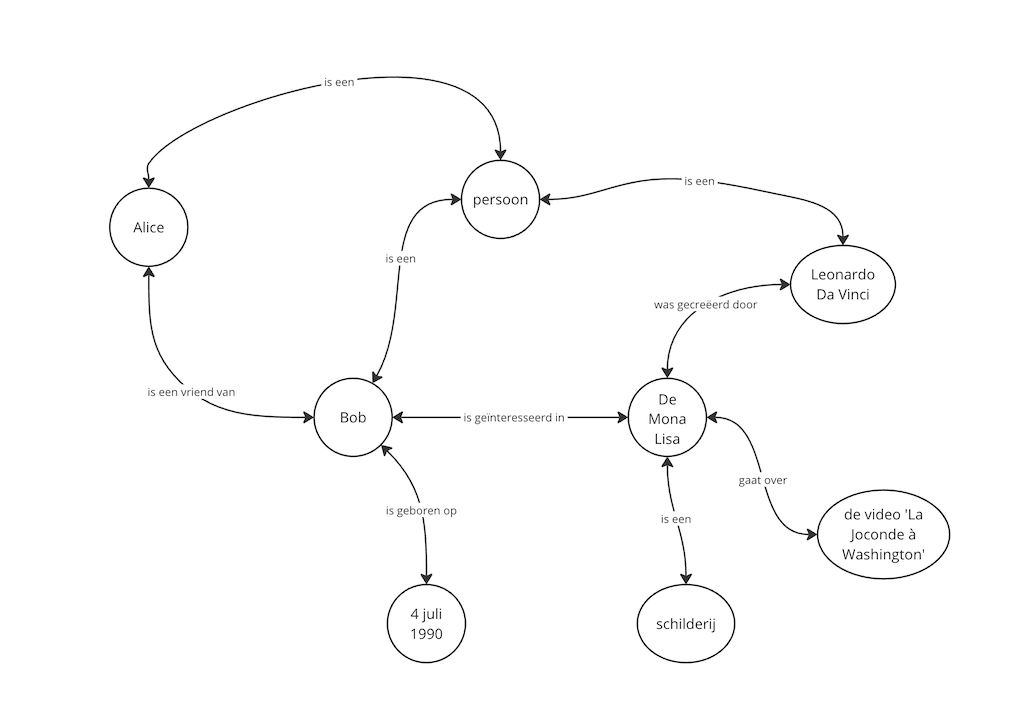
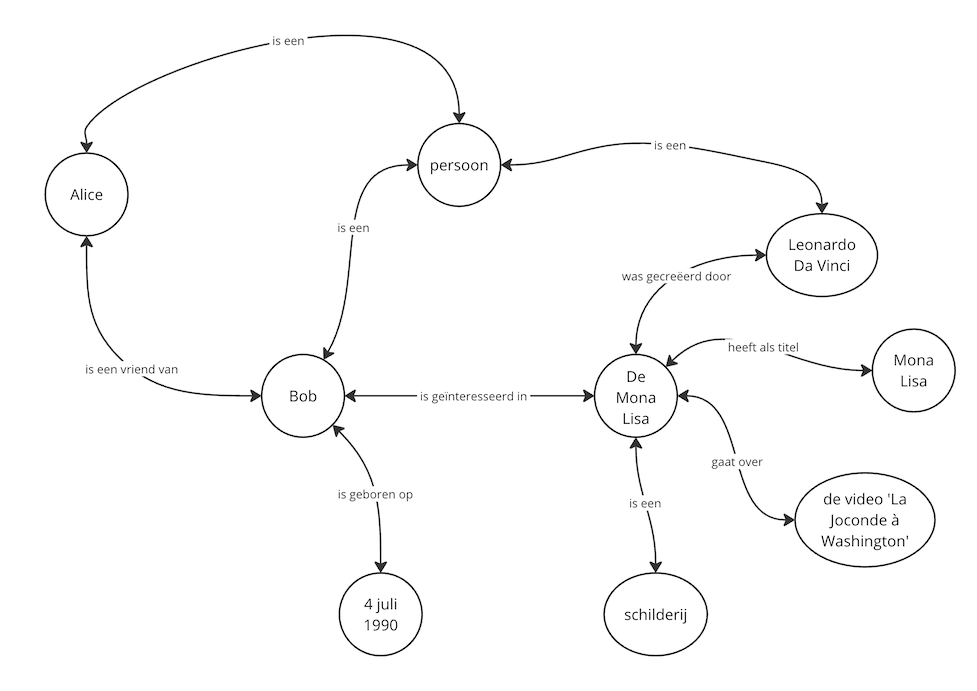
LPDC-910: beschrijf Iris, Literals, N-Triples, Turtle, SPARQL

diff --git a/docs/integrerende-gemeentes.md b/docs/integrerende-gemeentes.md
@@ -16,7 +16,9 @@ Het doel is om data uit verschillende bronnen gemakkelijk toegankelijk en integr
 **LOD (Linked Open Data)** is een uitbreiding van het Linked Data-concept, waarbij de nadruk ligt op het openbaar en vrij beschikbaar maken van verbonden datasets. 
 LOD maakt het mogelijk om gegevenssets van verschillende domeinen (zoals overheid, cultuur, wetenschap) aan elkaar te koppelen, waardoor een rijk en onderling verbonden gegevensweb ontstaat dat voor iedereen toegankelijk is.
 
-### RDF (Resource Description Framework) - SPARQL (SPARQL Protocol and RDF Query Language)
+### RDF (Resource Description Framework)
+
+#### Inleiding
 
 (uit:[rdf primer](https://www.w3.org/TR/rdf11-primer/))
 
@@ -44,6 +46,7 @@ _Voorbeeld:_
 <Bob> <is geboren op> <4 juli 1990>. 
 <Bob> <is geïnteresseerd in> <de Mona Lisa>.
 <Alice> <is een> <persoon>. 
+<de Mona Lisa> <heeft als titel> <Mona Lisa>.
 <de Mona Lisa> <was gecreëerd door> <Leonardo da Vinci>.
 <de Mona Lisa> <is een> <schilderij>.
 <de video 'La Joconde à Washington'> <gaat over> <de Mona Lisa> .
@@ -63,7 +66,152 @@ Elke triple in RDF graaf bestaat uit een subject (onderwerp), een predicaat (pre
 
 Merk op dat de relaties altijd bidirectioneel zijn in de graaf, maar in de triple omschrijving volstaat één richting te beschrijven.
 
+#### IRIs
+Een IRI is een International Resource Identifier. Een IRI definieert een bron (resource).  
+De URL's (Uniform Resource Locators) die mensen gebruiken als webadressen zijn één vorm van IRI (Internationalized Resource Identifiers).
+Andere vormen van IRI bieden een identificatie voor een bron zonder de locatie of hoe deze te benaderen te impliceren. 
+Het concept van IRI is een generalisatie van URI (Uniform Resource Identifier), waardoor niet-ASCII tekens gebruikt kunnen worden in de IRI-tekenreeks. 
+IRI's zijn gespecificeerd in [RFC3987](https://www.ietf.org/rfc/rfc3987.txt).
+
+IRI's kunnen verschijnen **in alle drie de posities** van een triple.
+
+Zoals vermeld, worden IRI's gebruikt om bronnen te identificeren zoals documenten, personen, fysieke objecten en abstracte concepten. 
+
+Bijvoorbeeld, de IRI voor Leonardo da Vinci in DBpedia is (subject en objectd <Leonardo da Vinci>):
+
+```
+http://dbpedia.org/resource/Leonardo_da_Vinci
+```
+
+De IRI voor een INA-video over de Mona Lisa getiteld 'La Joconde à Washington' in Europeana is: (subject: <de video 'La Joconde à Washington'>)
+
+```
+http://data.europeana.eu/item/04802/243FA8618938F4117025F17A8B813C5F9AA4D619
+```
+
+IRI's zijn wereldwijde identificatoren, dus andere mensen kunnen deze IRI hergebruiken om hetzelfde te identificeren. 
+Bijvoorbeeld, de volgende IRI wordt door veel mensen gebruikt als een RDF-eigenschap om een kennissenrelatie tussen mensen aan te geven (<is een vriend van> in pseudo voorbeeld>):
+
+```
+http://xmlns.com/foaf/0.1/knows
+```
+
+RDF is neutraal over wat de IRI vertegenwoordigt. Echter, IRIs kunnen betekenis krijgen door specifieke vocabulaires of conventies.
+
+Bijvoorbeeld, DBpedia gebruikt IRIs in de vorm van http://dbpedia.org/resource/Naam om het ding aan te duiden dat beschreven wordt door het overeenkomstige Wikipedia-artikel.
+
+Het RDF-datamodel biedt een manier om uitspraken te doen over bronnen. Zoals we hebben vermeld, maakt dit datamodel geen aannames over waarvoor bron-IRI's staan. 
+In de praktijk wordt RDF doorgaans gebruikt in combinatie met vocabulaires of andere conventies die semantische informatie over deze bronnen verstrekken.
+
+Veel gebruikte voorbeelden zijn: [RDF Syntax](https://www.w3.org/1999/02/22-rdf-syntax-ns), [Dublin Core](http://dublincore.org/documents/dcmi-terms/), [schema.org](http://schema.org/), [SKOS](http://www.w3.org/2004/02/skos/), [FOAF](http://www.foaf-project.org/).
+
+The aanduiden van een type <is een> kan bvb. met
+```
+http://www.w3.org/1999/02/22-rdf-syntax-ns#type
+```
+
+#### Literals
+
+Literals zijn basiswaarden die geen IRI's zijn. 
+Voorbeelden van literals omvatten strings zoals "La Joconde", datums zoals "de 4e juli, 1990" en getallen zoals "3.14159". 
+
+Literals worden geassocieerd met een datatype waardoor dergelijke waarden correct geparsed en geïnterpreteerd kunnen worden. 
+String literals kunnen optioneel geassocieerd worden met een language tag (taaltag).
+
+**Literals mogen alleen verschijnen in de objectpositie van een triple.**
+
+#### triple-store
+
 De set van triples worden bewaard in een **triple-store**. Dit is een database dit RDF van nature kan opslaan.
+
+Voorbeelden van triple stores zijn: [Virtuoso](https://github.com/openlink/virtuoso-opensource), [Apache Jena](https://jena.apache.org/), [GraphDB](https://graphdb.ontotext.com/).
+
+### Serialisatie formaten voor RDF Data
+
+Er bestaan verschillende serialisatieformaten voor het noteren van RDF-grafen. 
+Echter, verschillende manieren van het noteren van dezelfde graaf leiden tot precies dezelfde triples en zijn dus logisch equivalent.
+
+Hieronder geven we voorbeelden van verscheidene serialisatie formaten die het pseudo code voorbeeld map met een voorbeeld vocabulaires. Dezelfde data is 
+
+#### N-Triples
+
+N-Triples [N-TRIPLES] biedt een eenvoudige, regelgebaseerde, platte-tekst manier voor het serialiseren van RDF-grafen.
+
+```n-triples
+<http://example.org/bob#me> <http://www.w3.org/1999/02/22-rdf-syntax-ns#type> <http://xmlns.com/foaf/0.1/Person> .
+<http://example.org/bob#me> <http://xmlns.com/foaf/0.1/knows> <http://example.org/alice#me> .
+<http://example.org/bob#me> <http://schema.org/birthDate> "1990-07-04"^^<http://www.w3.org/2001/XMLSchema#date> .
+<http://example.org/bob#me> <http://xmlns.com/foaf/0.1/topic_interest> <http://www.wikidata.org/entity/Q12418> .
+<http://example.org/alice#me> <http://www.w3.org/1999/02/22-rdf-syntax-ns#type> <http://xmlns.com/foaf/0.1/Person> .
+<http://www.wikidata.org/entity/Q12418> <http://purl.org/dc/terms/title> "Mona Lisa" .
+<http://www.wikidata.org/entity/Q12418> <http://purl.org/dc/terms/creator> <http://dbpedia.org/resource/Leonardo_da_Vinci> .
+<http://www.wikidata.org/entity/Q12418> <http://www.w3.org/1999/02/22-rdf-syntax-ns#type>  <http://schema.org/Painting>.
+<http://data.europeana.eu/item/04802/243FA8618938F4117025F17A8B813C5F9AA4D619> <http://purl.org/dc/terms/subject> <http://www.wikidata.org/entity/Q12418> .
+<http://dbpedia.org/resource/Leonardo_da_Vinci> <http://www.w3.org/1999/02/22-rdf-syntax-ns#type> <http://xmlns.com/foaf/0.1/Person> .
+```
+
+Elke regel vertegenwoordigt een triple. Volledige IRI's zijn omsloten in spitse haakjes (<>). 
+De punt aan het einde van de regel geeft het einde van de triple aan. 
+In regel 3 zien we een voorbeeld van een literal, in dit geval een datum. 
+Het datatype wordt aan de literal toegevoegd via een ^^ scheidingsteken. 
+De datumsrepresentatie volgt de conventies van het XML Schema datatype date.
+
+Omdat string literals zo alomtegenwoordig zijn, staat N-Triples de gebruiker toe om het datatype weg te laten bij het schrijven van een string literal. 
+Dus, "Mona Lisa" is equivalent aan "Mona Lisa"^^xsd:string. 
+In het geval van taal-getagde strings verschijnt de tag direct na de string, gescheiden door een @ symbool, bijvoorbeeld "La Joconde"@fr (de Franse naam van de Mona Lisa).
+
+Het aantal lijntjes N-Triples vertegenwoordigt het aantal links in de graaf.
+
+#### Turtle
+
+Turtle is een uitbreiding van N-Triples. 
+Naast de basis N-Triples syntax, introduceert Turtle een aantal syntactische verkortingen, zoals ondersteuning voor namespace prefixes, lijsten en afkortingen voor datatyped literals. 
+Turtle biedt een compromis tussen schrijfgemak, parsegemak en leesbaarheid.
+
+Het werkvoorbeeld uitgedrukt in TURTLE:
+
+```turtle
+BASE   <http://example.org/>
+PREFIX foaf: <http://xmlns.com/foaf/0.1/>
+PREFIX xsd: <http://www.w3.org/2001/XMLSchema#>
+PREFIX schema: <http://schema.org/>
+PREFIX dcterms: <http://purl.org/dc/terms/>
+PREFIX wd: <http://www.wikidata.org/entity/>
+
+<bob#me>
+    a foaf:Person ;
+    foaf:knows <alice#me> ;
+    schema:birthDate "1990-07-04"^^xsd:date ;
+    foaf:topic_interest wd:Q12418 .
+
+<alice#me>
+    a foaf:Person.
+
+<http://dbpedia.org/resource/Leonardo_da_Vinci>
+    a foaf:Person.
+
+wd:Q12418
+    dcterms:title "Mona Lisa" ;
+    dcterms:creator <http://dbpedia.org/resource/Leonardo_da_Vinci> ;
+    a schema:Painting .
+
+<http://data.europeana.eu/item/04802/243FA8618938F4117025F17A8B813C5F9AA4D619>
+    dcterms:subject wd:Q12418 .
+```
+
+_Noot_: de afkorting 'a' komt overeen met de menselijke intuïtie over rdf:type. 
+
+
+#### JSON-LD
+
+JSON-LD [JSON-LD] biedt een JSON-syntax voor RDF-grafen en datasets. 
+JSON-LD kan gebruikt worden om JSON-documenten met minimale wijzigingen naar RDF om te zetten en omgekeerd. 
+JSON-LD biedt universele identificatoren voor JSON-objecten, een mechanisme waarbij een JSON-document kan verwijzen naar een object dat in een ander JSON-document elders op het web wordt beschreven, evenals datatype- en taalafhandeling. 
+
+//TODO LPDC-910: voeg voorbeeld toe
+
+
+###  SPARQL (SPARQL Protocol and RDF Query Language)
 
 Om gegevens te zoeken of te manipuleren in de graaf, kan je gebruik maken van **SPARQL**. 
 SPARQL kan gebruikt worden om queries uit te drukken over diverse gegevensbronnen, of de gegevens nu van nature als RDF opgeslagen zijn of als RDF bekeken worden via middleware. 
@@ -71,10 +219,27 @@ SPARQL bevat mogelijkheden voor het opvragen van vereiste en optionele graafpatr
 SPARQL ondersteunt ook aggregatie, subqueries, negatie, het creëren van waarden door expressies, uitbreidbare waardebeoordeling, en het beperken van queries door bron RDF-graaf. 
 De resultaten van SPARQL-queries kunnen resultaatsets of RDF-grafen zijn.
 
-### LDES (Linked Data Event Stream)
+Een voorbeeld query: 
 
-### JSON-LD ()
+```sparql
+select ?subject WHERE {
+    GRAPH <test> {
+          ?subject <http://www.w3.org/1999/02/22-rdf-syntax-ns#type> <http://xmlns.com/foaf/0.1/Person>
+    }
+}
+```
+
+Geeft als resultaat:
+```
+subject
+http://dbpedia.org/resource/Leonardo_da_Vinci
+http://example.org/alice#me
+http://example.org/bob#me
+```
+
 ### SHACL
+
+### LDES (Linked Data Event Stream)
 
 ## Contract specificaties
 
@@ -91,13 +256,16 @@ De resultaten van SPARQL-queries kunnen resultaatsets of RDF-grafen zijn.
 - [IPDC - LPDC (Implementatiemodel)](https://data.vlaanderen.be/doc/implementatiemodel/ipdc-lpdc/)
 - [URI (Uniform Resource Identifier)](https://en.wikipedia.org/wiki/Uniform_Resource_Identifier)
 - [RDF (Resource Description Framework)](https://www.w3.org/TR/rdf11-primer/)
+- [N-TRIPLES](https://www.w3.org/TR/n-triples/)
+- [Turtle](https://www.w3.org/TR/turtle/)
+- [JSON-LD specificatie](https://www.w3.org/TR/json-ld/)
+- [JSON-LD (JSON for Linking Data)](https://json-ld.org/)
+- [JSON-LD 1.1 Processing Algorithms and API](https://www.w3.org/TR/json-ld11-api/)
 - [SPARQL 1.1 Query Language](https://www.w3.org/TR/sparql11-query/)
 - [OWL (Web Ontology Language)](https://www.w3.org/TR/owl2-overview/)
 - [SHACL (Shapes Constraint Language)](https://www.w3.org/TR/shacl)
 - [LDES (Linked Data Event Streams)](https://semiceu.github.io/LinkedDataEventStreams/)
 - [TREE (The TREE hypermedia specification)](https://treecg.github.io/specification/)
-- [JSON-LD (JSON for Linking Data)](https://json-ld.org/)
-- [JSON-LD 1.1 Processing Algorithms and API](https://www.w3.org/TR/json-ld11-api/)
 
 ### Broncode (open source)
 
